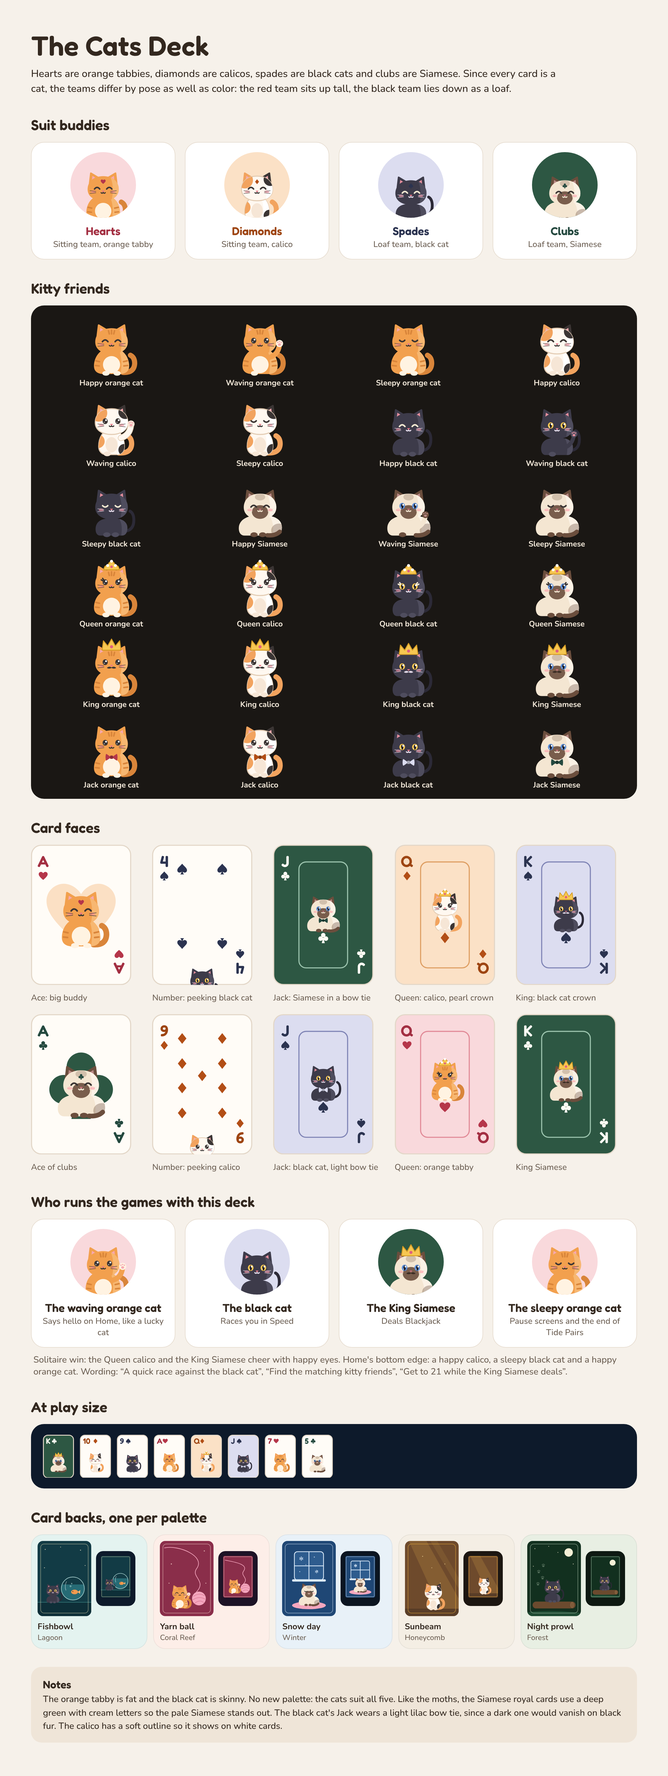
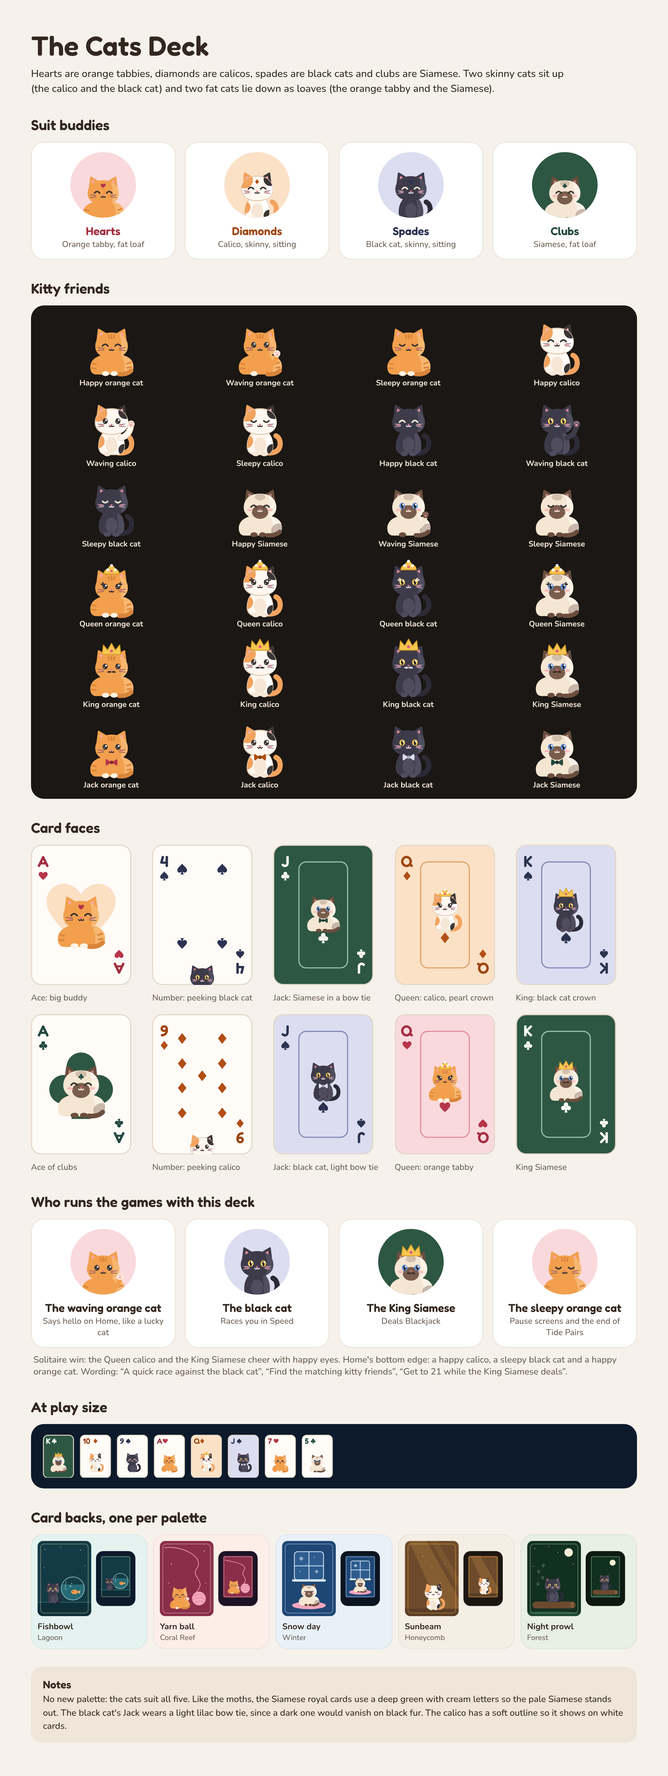
Cats: orange tabby as a fat loaf, black cat sitting up
The owner wanted two fat cats and two skinny ones: the orange tabby now takes
the Siamese's loaf body (keeping its stripes) and the black cat the calico's
sitting body. Update the master, the app's cats, the sheet and the plan.

Claude-Session: https://claude.ai/code/session_01MpZGoDHbcvynzRbebqZYLX

diff --git a/design/garden-mockup/cats.js b/design/garden-mockup/cats.js
@@ -1,5 +1,5 @@
 // Cat deck mockup art. Needs art.js (face helpers, crown, bowtie, badge, lightHalf, mix, shade, id).
-// Red team sits up tall (orange tabby = hearts, calico = diamonds); black team lies as a loaf (black = spades, Siamese = clubs).
+// Two skinny cats sit up (calico = diamonds, black cat = spades); two fat cats lie as loaves (orange tabby = hearts, Siamese = clubs).
 const CAT = {
   hearts: { fur: '#F2A04E', light: '#F7B771', dark: '#D9853A', belly: '#FFF3E2', ink: '#3B3534', iris: null, line: '#3B3534', nose: '#E9788A', inner: '#F7A8B0' },
   diamonds: { fur: '#FFF8F0', light: '#FFFFFF', dark: '#E8DCCD', belly: '#F6E6D6', outline: '#E3CCB3', ink: '#3B3534', iris: null, line: '#3B3534', nose: '#E9788A', inner: '#F7A8B0' },
@@ -58,25 +58,19 @@ const pawPads = (x, y, r, P, color) => `<circle cx="${x}" cy="${y}" r="${r}" fil
   + `<circle cx="${x - r * 0.48}" cy="${y - r * 0.32}" r="${r * 0.19}" fill="${P.inner}"/><circle cx="${x}" cy="${y - r * 0.5}" r="${r * 0.19}" fill="${P.inner}"/><circle cx="${x + r * 0.48}" cy="${y - r * 0.32}" r="${r * 0.19}" fill="${P.inner}"/>`;
 const paw = (x, y, P, color) => `<ellipse cx="${x}" cy="${y}" rx="4.2" ry="2.8" fill="${color ?? P.belly}"/>`;
 
-/** Red team: sitting up, tail curled around the side. */
-const SIT_BODY = {
-  // the orange tabby is fat and round; the calico has the standard body
-  hearts: 'M32 29 C46 29 52.5 40 52.5 50 C52.5 57 47.5 59.5 40.5 59.5 L23.5 59.5 C16.5 59.5 11.5 57 11.5 50 C11.5 40 18 29 32 29 Z',
-  diamonds: 'M32 30 C42 30 47 40 47 50 C47 56 43 59.5 38 59.5 L26 59.5 C21 59.5 17 56 17 50 C17 40 22 30 32 30 Z',
-};
-function sittingCat({ suit = 'hearts', eyes = 'happy', hat, wave, badgeColor, bowtieColor, jewel }) {
+/** The skinny cats: sitting up, tail curled around the side. */
+const SIT_BODY = 'M32 30 C42 30 47 40 47 50 C47 56 43 59.5 38 59.5 L26 59.5 C21 59.5 17 56 17 50 C17 40 22 30 32 30 Z';
+function sittingCat({ suit = 'diamonds', eyes = 'happy', hat, wave, badgeColor, bowtieColor, jewel }) {
   const P = CAT[suit];
-  const fat = suit === 'hearts';
   let s = '';
-  s += `<path fill="none" stroke="${suit === 'diamonds' ? '#F2A35E' : P.dark}" stroke-width="6" stroke-linecap="round" d="${fat ? 'M45 57.5 Q58.5 58.5 59 47 Q59 40 54 37.5' : 'M40 57.5 Q55 58.5 55.5 47 Q55.5 40 50.5 37.5'}"/>`;
+  s += `<path fill="none" stroke="${suit === 'diamonds' ? '#F2A35E' : P.dark}" stroke-width="6" stroke-linecap="round" d="M40 57.5 Q55 58.5 55.5 47 Q55.5 40 50.5 37.5"/>`;
   const edge = P.outline ? ` stroke="${P.outline}" stroke-width="1.2"` : '';
-  const body = `<path fill="${P.fur}"${edge} d="${SIT_BODY[suit]}"/>`;
-  s += body + lightHalf(body, fat ? 'M38 27 C44 36 45 48 42 62 L64 62 L64 27 Z' : 'M35 28 C40 36 41 48 38 62 L64 62 L64 28 Z', P.light);
+  const body = `<path fill="${P.fur}"${edge} d="${SIT_BODY}"/>`;
+  s += body + lightHalf(body, 'M35 28 C40 36 41 48 38 62 L64 62 L64 28 Z', P.light);
   const c = id('cb');
-  if (suit === 'diamonds') s += `<clipPath id="${c}"><path d="M32 30 C42 30 47 40 47 50 C47 56 43 59.5 38 59.5 L26 59.5 C21 59.5 17 56 17 50 C17 40 22 30 32 30 Z"/></clipPath><g clip-path="url(#${c})"><circle cx="16" cy="44" r="8" fill="#F2A35E"/><circle cx="47" cy="54" r="7" fill="#3B3534"/></g>`;
-  if (fat) s += `<path fill="none" stroke="${P.dark}" stroke-width="1.8" stroke-linecap="round" d="M13.6 44 L18 45 M13.2 49.5 L17.6 50 M50.4 44 L46 45 M50.8 49.5 L46.4 50"/>`;
-  s += fat ? `<ellipse cx="32" cy="48.5" rx="10" ry="10" fill="${P.belly}"/>` : `<ellipse cx="32" cy="48" rx="7" ry="9" fill="${P.belly}"/>`;
-  s += paw(fat ? 25.5 : 27, 58.6, P) + (wave ? '' : paw(fat ? 38.5 : 37, 58.6, P));
+  if (suit === 'diamonds') s += `<clipPath id="${c}"><path d="${SIT_BODY}"/></clipPath><g clip-path="url(#${c})"><circle cx="16" cy="44" r="8" fill="#F2A35E"/><circle cx="47" cy="54" r="7" fill="#3B3534"/></g>`;
+  s += `<ellipse cx="32" cy="48" rx="7" ry="9" fill="${P.belly}"/>`;
+  s += paw(27, 58.6, P) + (wave ? '' : paw(37, 58.6, P));
   s += catHeadParts(suit, P, 0, { eyes, hat, badgeColor });
   if (wave) {
     // The raised paw, clear of the whiskers; the calico's gets the same soft outline as its body
@@ -84,47 +78,43 @@ function sittingCat({ suit = 'hearts', eyes = 'happy', hat, wave, badgeColor, bo
     s += `<path fill="none" stroke="${P.fur}" stroke-width="6" stroke-linecap="round" d="M43 40 Q53 37 54.5 26"/>` + pawPads(54.7, 23.8, 4.2, P);
   }
   if (badgeColor) s += badge(suit, badgeColor, 28.4, 9.2, 0.3);
-  if (bowtieColor) s += bowtie(32, 37.4, bowtieColor);
+  if (bowtieColor) s += bowtie(32, 37.4, suit === 'spades' ? '#DCDDF0' : bowtieColor);
   s += crown(hat, -8.5, jewel);
   return s;
 }
 
-/** Black team: a loaf, paws tucked, tail wrapped along the front. */
-function loafCat({ suit = 'spades', eyes = 'open', hat, wave, badgeColor, bowtieColor, jewel }) {
+/** The fat cats: a loaf, paws tucked, tail wrapped along the front; the orange tabby keeps its side stripes. */
+const LOAF_BODY = 'M14 60 C8 60 6.5 54 7.5 48.5 C9.5 40.5 18 36.5 30 36.5 L36 36.5 C50 36.5 57.5 42 57.5 50.5 C57.5 57 54.5 60 49.5 60 Z';
+function loafCat({ suit = 'clubs', eyes = 'open', hat, wave, badgeColor, bowtieColor, jewel }) {
   const P = CAT[suit];
   const dy = 5;
   let s = '';
-  const skinny = suit === 'spades';
-  const bodyD = skinny
-    ? 'M19 60 C14 60 13 55 13.5 50.5 C14.5 43.5 20.5 40 29.5 40 L35 40 C45 40 50.5 44.5 50.5 51 C50.5 57 48 60 44 60 Z'
-    : 'M14 60 C8 60 6.5 54 7.5 48.5 C9.5 40.5 18 36.5 30 36.5 L36 36.5 C50 36.5 57.5 42 57.5 50.5 C57.5 57 54.5 60 49.5 60 Z';
-  const body = `<path fill="${P.fur}" d="${bodyD}"/>`;
-  if (skinny) s += `<path fill="none" stroke="${P.dark}" stroke-width="3.4" stroke-linecap="round" d="M47 55 Q58 54 58 42 Q58 34 53.5 31.5"/>`;
-  s += body + lightHalf(body, skinny ? 'M38 37 C44 42 45 51 43 62 L64 62 L64 37 Z' : 'M40 34 C47 40 49 50 46 62 L64 62 L64 34 Z', P.light);
-  if (suit === 'clubs') { const c = id('cl'); s += `<clipPath id="${c}"><path d="${bodyD}"/></clipPath><g clip-path="url(#${c})"><ellipse cx="54" cy="54" rx="9" ry="8" fill="${P.point}" opacity=".35"/></g>`; }
-  const tail = suit === 'clubs' ? P.point : P.dark;
-  if (!skinny) s += `<path fill="none" stroke="${tail}" stroke-width="5" stroke-linecap="round" d="M55 55.5 Q50 60.5 40.5 59.6"/>`;
-  const pawColor = suit === 'clubs' ? P.point : suit === 'spades' ? '#4F4D5E' : undefined;
-  s += paw(skinny ? 26.5 : 25, 59, P, pawColor) + (wave ? '' : paw(skinny ? 36.5 : 35, 59, P, pawColor));
+  const body = `<path fill="${P.fur}" d="${LOAF_BODY}"/>`;
+  s += body + lightHalf(body, 'M40 34 C47 40 49 50 46 62 L64 62 L64 34 Z', P.light);
+  if (suit === 'clubs') { const c = id('cl'); s += `<clipPath id="${c}"><path d="${LOAF_BODY}"/></clipPath><g clip-path="url(#${c})"><ellipse cx="54" cy="54" rx="9" ry="8" fill="${P.point}" opacity=".35"/></g>`; }
+  if (suit === 'hearts') s += `<path fill="none" stroke="${P.dark}" stroke-width="1.8" stroke-linecap="round" d="M9.6 47 L14 48.2 M9 52.5 L13.6 53 M54.4 46 L50 47.4 M55 51.5 L50.4 52.2"/>`;
+  s += `<path fill="none" stroke="${P.point ?? P.dark}" stroke-width="5" stroke-linecap="round" d="M55 55.5 Q50 60.5 40.5 59.6"/>`;
+  const pawColor = P.point ?? P.belly;
+  s += paw(25, 59, P, pawColor) + (wave ? '' : paw(35, 59, P, pawColor));
   s += catHeadParts(suit, P, dy, { eyes, hat, badgeColor });
-  if (wave) s += `<path fill="none" stroke="${P.fur}" stroke-width="${skinny ? 4.6 : 5.5}" stroke-linecap="round" d="M42 51 Q50 47 51.5 37.5"/>` + pawPads(51.7, 35.6, 4, P, pawColor);
+  if (wave) s += `<path fill="none" stroke="${P.fur}" stroke-width="5.5" stroke-linecap="round" d="M42 51 Q50 47 51.5 37.5"/>` + pawPads(51.7, 35.6, 4, P, pawColor);
   if (badgeColor) s += badge(suit, badgeColor, 28.4, 9.2 + dy, 0.3);
-  if (bowtieColor) s += bowtie(32, 37.4 + dy + 1, suit === 'spades' ? '#DCDDF0' : bowtieColor);
+  if (bowtieColor) s += bowtie(32, 37.4 + dy + 1, bowtieColor);
   s += crown(hat, -8.5 + dy, jewel);
   return s;
 }
 
-SPECIES.cat = (o) => (o.suit === 'spades' || o.suit === 'clubs' ? loafCat(o) : sittingCat(o));
+SPECIES.cat = (o) => (o.suit === 'hearts' || o.suit === 'clubs' ? loafCat(o) : sittingCat(o));
 
 DECKS.cats = {
   name: 'Cats', blurb: 'Orange, calico, black and Siamese cats', friends: 'kitty friends',
   face: '#FFFCF7', border: '#E3D7C8',
   red: 'cat', black: 'cat',
   suits: {
-    hearts: { symbol: '#B5364A', rank: '#A32F42', tint: '#F9D9DC', frame: '#E18A97', ace: ['#F2A04E', 0.3], note: 'Sitting team, orange tabby' },
-    diamonds: { symbol: '#B24E16', rank: '#9E4512', tint: '#FBE1C6', frame: '#DE9E62', ace: ['#F2A35E', 0.3], note: 'Sitting team, calico' },
-    spades: { symbol: '#2B3350', rank: '#2B3350', tint: '#DCDDF0', frame: '#7F84B5', ace: ['#DCDDF0', 1], note: 'Loaf team, black cat' },
-    clubs: { symbol: '#24493F', rank: '#24493F', tint: '#2D5743', frame: '#9CC4AE', faceInk: '#FFFDF5', ace: ['#2D5743', 1], note: 'Loaf team, Siamese' },
+    hearts: { symbol: '#B5364A', rank: '#A32F42', tint: '#F9D9DC', frame: '#E18A97', ace: ['#F2A04E', 0.3], note: 'Orange tabby, fat loaf' },
+    diamonds: { symbol: '#B24E16', rank: '#9E4512', tint: '#FBE1C6', frame: '#DE9E62', ace: ['#F2A35E', 0.3], note: 'Calico, skinny, sitting' },
+    spades: { symbol: '#2B3350', rank: '#2B3350', tint: '#DCDDF0', frame: '#7F84B5', ace: ['#DCDDF0', 1], note: 'Black cat, skinny, sitting' },
+    clubs: { symbol: '#24493F', rank: '#24493F', tint: '#2D5743', frame: '#9CC4AE', faceInk: '#FFFDF5', ace: ['#2D5743', 1], note: 'Siamese, fat loaf' },
   },
 };
 

diff --git a/src/art/Cat.tsx b/src/art/Cat.tsx
@@ -1,5 +1,5 @@
-// The Cats deck: an orange tabby (hearts, fat) and a calico (diamonds) sitting up, a black cat (spades, skinny) and a
-// Siamese (clubs) lying as loaves. Every shape, coordinate and color is ported from design/garden-mockup/cats.js (the
+// The Cats deck: two skinny cats sitting up, a calico (diamonds) and a black cat (spades), and two fat cats lying as
+// loaves, an orange tabby (hearts) and a Siamese (clubs). Every shape, coordinate and color is ported from design/garden-mockup/cats.js (the
 // approved master; Garden.test.tsx checks the two match). Drawn through <Garden kind="cat">.
 import type { Suit } from '../cards/deck';
 import type { Eyes, Hat } from './Creature';
@@ -164,10 +164,7 @@ function RaisedPaw({ x, y, r, P, color }: { x: number; y: number; r: number; P: 
 
 const Paw = ({ x, y, color }: { x: number; y: number; color: string }) => <ellipse cx={x} cy={y} rx={4.2} ry={2.8} fill={color} />;
 
-const SIT_BODY: Partial<Record<Suit, string>> = {
-  hearts: 'M32 29 C46 29 52.5 40 52.5 50 C52.5 57 47.5 59.5 40.5 59.5 L23.5 59.5 C16.5 59.5 11.5 57 11.5 50 C11.5 40 18 29 32 29 Z',
-  diamonds: 'M32 30 C42 30 47 40 47 50 C47 56 43 59.5 38 59.5 L26 59.5 C21 59.5 17 56 17 50 C17 40 22 30 32 30 Z',
-};
+const SIT_BODY = 'M32 30 C42 30 47 40 47 50 C47 56 43 59.5 38 59.5 L26 59.5 C21 59.5 17 56 17 50 C17 40 22 30 32 30 Z';
 
 export interface CatDrawProps {
   suit: Suit;
@@ -181,41 +178,31 @@ export interface CatDrawProps {
   uid: string;
 }
 
-/** Red team: sitting up with the tail curled around the side; the orange tabby is fat and round. */
+/** The skinny cats: sitting up with the tail curled around the side. */
 function SittingCat({ suit, eyes = 'happy', hat, wave, badge, badgeColor, bowtie, jewel, uid }: CatDrawProps) {
   const P = CAT[suit];
-  const fat = suit === 'hearts';
-  const body = SIT_BODY[suit] ?? SIT_BODY.diamonds!;
   const edge = P.outline ? { stroke: P.outline, strokeWidth: 1.2 } : {};
   const arm = 'M43 40 Q53 37 54.5 26';
   return (
     <>
       <path
         fill="none" stroke={suit === 'diamonds' ? PATCH_ORANGE : P.dark} strokeWidth={6} strokeLinecap="round"
-        d={fat ? 'M45 57.5 Q58.5 58.5 59 47 Q59 40 54 37.5' : 'M40 57.5 Q55 58.5 55.5 47 Q55.5 40 50.5 37.5'}
+        d="M40 57.5 Q55 58.5 55.5 47 Q55.5 40 50.5 37.5"
       />
-      <path fill={P.fur} {...edge} d={body} />
-      <LightHalf
-        id={`${uid}-body`}
-        clip={<path {...edge} d={body} />}
-        split={fat ? 'M38 27 C44 36 45 48 42 62 L64 62 L64 27 Z' : 'M35 28 C40 36 41 48 38 62 L64 62 L64 28 Z'}
-        color={P.light}
-      />
+      <path fill={P.fur} {...edge} d={SIT_BODY} />
+      <LightHalf id={`${uid}-body`} clip={<path {...edge} d={SIT_BODY} />} split="M35 28 C40 36 41 48 38 62 L64 62 L64 28 Z" color={P.light} />
       {suit === 'diamonds' && (
         <>
-          <clipPath id={`${uid}-spots`}><path d={body} /></clipPath>
+          <clipPath id={`${uid}-spots`}><path d={SIT_BODY} /></clipPath>
           <g clipPath={`url(#${uid}-spots)`}>
             <circle cx={16} cy={44} r={8} fill={PATCH_ORANGE} />
             <circle cx={47} cy={54} r={7} fill={PATCH_BLACK} />
           </g>
         </>
       )}
-      {fat && (
-        <path fill="none" stroke={P.dark} strokeWidth={1.8} strokeLinecap="round" d="M13.6 44 L18 45 M13.2 49.5 L17.6 50 M50.4 44 L46 45 M50.8 49.5 L46.4 50" />
-      )}
-      {fat ? <ellipse cx={32} cy={48.5} rx={10} ry={10} fill={P.belly} /> : <ellipse cx={32} cy={48} rx={7} ry={9} fill={P.belly} />}
-      <Paw x={fat ? 25.5 : 27} y={58.6} color={P.belly} />
-      {!wave && <Paw x={fat ? 38.5 : 37} y={58.6} color={P.belly} />}
+      <ellipse cx={32} cy={48} rx={7} ry={9} fill={P.belly} />
+      <Paw x={27} y={58.6} color={P.belly} />
+      {!wave && <Paw x={37} y={58.6} color={P.belly} />}
       <Head suit={suit} P={P} dy={0} eyes={eyes} hat={hat} badge={!!(badge && badgeColor)} uid={uid} />
       {wave && (
         <>
@@ -226,56 +213,52 @@ function SittingCat({ suit, eyes = 'happy', hat, wave, badge, badgeColor, bowtie
         </>
       )}
       {badge && <Badge suit={suit} color={badgeColor} x={28.4} y={9.2} scale={0.3} />}
-      <BowTie cx={32} cy={37.4} color={bowtie} />
+      <BowTie cx={32} cy={37.4} color={bowtie && suit === 'spades' ? BLACK_CAT_BOWTIE : bowtie} />
       <Crown hat={hat} dy={-8.5} jewel={jewel} />
     </>
   );
 }
 
 const LOAF_BODY = 'M14 60 C8 60 6.5 54 7.5 48.5 C9.5 40.5 18 36.5 30 36.5 L36 36.5 C50 36.5 57.5 42 57.5 50.5 C57.5 57 54.5 60 49.5 60 Z';
-const SKINNY_BODY = 'M19 60 C14 60 13 55 13.5 50.5 C14.5 43.5 20.5 40 29.5 40 L35 40 C45 40 50.5 44.5 50.5 51 C50.5 57 48 60 44 60 Z';
 
-/** Black team: a loaf with paws tucked; the black cat is skinny with a long thin tail curling up behind. */
+/** The fat cats: a loaf with paws tucked and the tail wrapped along the front; the orange tabby keeps its side stripes. */
 function LoafCat({ suit, eyes = 'open', hat, wave, badge, badgeColor, bowtie, jewel, uid }: CatDrawProps) {
   const P = CAT[suit];
   const dy = 5;
-  const skinny = suit === 'spades';
-  const body = skinny ? SKINNY_BODY : LOAF_BODY;
-  const pawColor = P.point ?? (skinny ? '#4F4D5E' : P.belly);
+  const pawColor = P.point ?? P.belly;
   return (
     <>
-      {skinny && <path fill="none" stroke={P.dark} strokeWidth={3.4} strokeLinecap="round" d="M47 55 Q58 54 58 42 Q58 34 53.5 31.5" />}
-      <path fill={P.fur} d={body} />
-      <LightHalf
-        id={`${uid}-body`}
-        clip={<path d={body} />}
-        split={skinny ? 'M38 37 C44 42 45 51 43 62 L64 62 L64 37 Z' : 'M40 34 C47 40 49 50 46 62 L64 62 L64 34 Z'}
-        color={P.light}
-      />
+      <path fill={P.fur} d={LOAF_BODY} />
+      <LightHalf id={`${uid}-body`} clip={<path d={LOAF_BODY} />} split="M40 34 C47 40 49 50 46 62 L64 62 L64 34 Z" color={P.light} />
       {P.point && (
         <>
-          <clipPath id={`${uid}-haunch`}><path d={body} /></clipPath>
+          <clipPath id={`${uid}-haunch`}><path d={LOAF_BODY} /></clipPath>
           <g clipPath={`url(#${uid}-haunch)`}><ellipse cx={54} cy={54} rx={9} ry={8} fill={P.point} opacity={0.35} /></g>
         </>
       )}
-      {!skinny && <path fill="none" stroke={P.point ?? P.dark} strokeWidth={5} strokeLinecap="round" d="M55 55.5 Q50 60.5 40.5 59.6" />}
-      <Paw x={skinny ? 26.5 : 25} y={59} color={pawColor} />
-      {!wave && <Paw x={skinny ? 36.5 : 35} y={59} color={pawColor} />}
+      {suit === 'hearts' && (
+        <path fill="none" stroke={P.dark} strokeWidth={1.8} strokeLinecap="round" d="M9.6 47 L14 48.2 M9 52.5 L13.6 53 M54.4 46 L50 47.4 M55 51.5 L50.4 52.2" />
+      )}
+      <path fill="none" stroke={P.point ?? P.dark} strokeWidth={5} strokeLinecap="round" d="M55 55.5 Q50 60.5 40.5 59.6" />
+      <Paw x={25} y={59} color={pawColor} />
+      {!wave && <Paw x={35} y={59} color={pawColor} />}
       <Head suit={suit} P={P} dy={dy} eyes={eyes} hat={hat} badge={!!(badge && badgeColor)} uid={uid} />
       {wave && (
         <>
-          <path fill="none" stroke={P.fur} strokeWidth={skinny ? 4.6 : 5.5} strokeLinecap="round" d="M42 51 Q50 47 51.5 37.5" />
+          <path fill="none" stroke={P.fur} strokeWidth={5.5} strokeLinecap="round" d="M42 51 Q50 47 51.5 37.5" />
           <RaisedPaw x={51.7} y={35.6} r={4} P={P} color={pawColor} />
         </>
       )}
       {badge && <Badge suit={suit} color={badgeColor} x={28.4} y={9.2 + dy} scale={0.3} />}
-      <BowTie cx={32} cy={37.4 + dy + 1} color={bowtie && skinny ? BLACK_CAT_BOWTIE : bowtie} />
+      <BowTie cx={32} cy={37.4 + dy + 1} color={bowtie} />
       <Crown hat={hat} dy={-8.5 + dy} jewel={jewel} />
     </>
   );
 }
 
-/** Hearts and diamonds sit up; spades and clubs lie as loaves. */
+/** The orange tabby and the Siamese lie as fat loaves; the calico and the black cat sit up, skinny. */
+export const isLoafCat = (suit: Suit) => suit === 'hearts' || suit === 'clubs';
+
 export function Cat(props: CatDrawProps) {
-  return props.suit === 'spades' || props.suit === 'clubs' ? <LoafCat {...props} /> : <SittingCat {...props} />;
+  return isLoafCat(props.suit) ? <LoafCat {...props} /> : <SittingCat {...props} />;
 }

diff --git a/design/garden-mockup/catdeck.html b/design/garden-mockup/catdeck.html
@@ -39,7 +39,7 @@ document.body.style.background = T.bg; document.body.style.color = T.ink;
 const SUITS = ['hearts', 'diamonds', 'spades', 'clubs'];
 const cap = (s) => s[0].toUpperCase() + s.slice(1);
 const NAME = { hearts: 'orange cat', diamonds: 'calico', spades: 'black cat', clubs: 'Siamese' };
-let h = `<h1>The Cats Deck</h1><p class="lead">Hearts are orange tabbies, diamonds are calicos, spades are black cats and clubs are Siamese. Since every card is a cat, the teams differ by pose as well as color: the red team sits up tall, the black team lies down as a loaf.</p>`;
+let h = `<h1>The Cats Deck</h1><p class="lead">Hearts are orange tabbies, diamonds are calicos, spades are black cats and clubs are Siamese. Two skinny cats sit up (the calico and the black cat) and two fat cats lie down as loaves (the orange tabby and the Siamese).</p>`;
 h += `<h2>Suit buddies</h2><div class="row">`;
 for (const s of SUITS) { const S = D.suits[s]; h += `<div class="box"><div class="circle" style="background:${S.tint}">${char('cat', { suit: s, eyes: 'happy', badgeColor: S.symbol }, 88, 'style="margin-bottom:-4px"')}</div><div class="name" style="color:${S.rank}">${cap(s)}</div><div class="note">${S.note}</div></div>`; }
 h += `</div><h2>${cap(D.friends)}</h2><div class="strip" style="background:${T.table}">`;
@@ -69,6 +69,6 @@ const PAL = { lagoon: ['Lagoon', '#E4F3F0', '#0D1A2B'], coral: ['Coral Reef', '#
 for (const k of Object.keys(CAT_BACKS)) { const B = CAT_BACKS[k], [pn, light, dark] = PAL[B.palette];
   h += `<div class="bcell" style="background:${light}"><div class="pair">${catBack(k, 90)}<div class="tbl" style="background:${dark}">${catBack(k, 50)}</div></div><div class="nm">${B.name}</div><div class="pl">${pn}</div></div>`; }
 h += `</div>`;
-h += `<div class="q"><b>Notes</b><br>The orange tabby is fat and the black cat is skinny. No new palette: the cats suit all five. Like the moths, the Siamese royal cards use a deep green with cream letters so the pale Siamese stands out. The black cat's Jack wears a light lilac bow tie, since a dark one would vanish on black fur. The calico has a soft outline so it shows on white cards.</div>`;
+h += `<div class="q"><b>Notes</b><br>No new palette: the cats suit all five. Like the moths, the Siamese royal cards use a deep green with cream letters so the pale Siamese stands out. The black cat's Jack wears a light lilac bow tie, since a dark one would vanish on black fur. The calico has a soft outline so it shows on white cards.</div>`;
 document.body.innerHTML = h;
 </script></body></html>

diff --git a/src/screens/Gallery.tsx b/src/screens/Gallery.tsx
@@ -98,10 +98,10 @@ const GARDEN_DECKS = [
 
 // The Cats deck's suit colors (PLAN.md "Cats deck"), until it joins DECKS in phase 23
 const CAT_SUITS: Record<Suit, { symbol: string; tint: string; name: string; team: string }> = {
-  hearts: { symbol: '#B5364A', tint: '#F9D9DC', name: 'orange cat', team: 'Sitting team, orange tabby' },
-  diamonds: { symbol: '#B24E16', tint: '#FBE1C6', name: 'calico', team: 'Sitting team, calico' },
-  spades: { symbol: '#2B3350', tint: '#DCDDF0', name: 'black cat', team: 'Loaf team, black cat' },
-  clubs: { symbol: '#24493F', tint: '#2D5743', name: 'Siamese', team: 'Loaf team, Siamese' },
+  hearts: { symbol: '#B5364A', tint: '#F9D9DC', name: 'orange cat', team: 'Orange tabby, fat loaf' },
+  diamonds: { symbol: '#B24E16', tint: '#FBE1C6', name: 'calico', team: 'Calico, skinny, sitting' },
+  spades: { symbol: '#2B3350', tint: '#DCDDF0', name: 'black cat', team: 'Black cat, skinny, sitting' },
+  clubs: { symbol: '#24493F', tint: '#2D5743', name: 'Siamese', team: 'Siamese, fat loaf' },
 };
 
 /** Every cat in every pose, and who runs the games with the Cats deck. */

diff --git a/src/art/Garden.tsx b/src/art/Garden.tsx
@@ -8,7 +8,7 @@ import type { Eyes, Hat } from './Creature';
 import { ASPECT, VIEWBOX } from './Creature';
 import { mix } from './color';
 import { Badge, BowTie, Crown, LightHalf, stroke } from './gardenParts';
-import { Cat } from './Cat';
+import { Cat, isLoafCat } from './Cat';
 
 export type GardenKind = 'sloth' | 'bee' | 'mushroom' | 'moth' | 'cat';
 
@@ -296,7 +296,7 @@ function Moth({ suit, eyes, hat, wave, badge, badgeColor, bowtie, jewel }: Drawn
 const DRAW: Record<GardenKind, (p: Drawn) => React.ReactElement> = { sloth: Sloth, bee: Bee, mushroom: Mushroom, moth: Moth, cat: Cat };
 const DEFAULT_EYES: Record<GardenKind, (suit: Suit) => Eyes> = {
   sloth: () => 'happy', bee: () => 'open', mushroom: () => 'happy', moth: () => 'open',
-  cat: (suit) => (suit === 'spades' || suit === 'clubs' ? 'open' : 'happy'),
+  cat: (suit) => (isLoafCat(suit) ? 'open' : 'happy'),
 };
 
 /** The character drawn in viewBox coordinates, for use inside another SVG. */

diff --git a/PLAN.md b/PLAN.md
@@ -737,12 +737,12 @@ Approved by the owner on Oct 31, 2026 (`design/cats-deck.png`). A fifth deck whe
 
 | Suit | Cat | Pose | Notes |
 | --- | --- | --- | --- |
-| Hearts | Orange tabby | Sitting up, fat and round | Forehead and side stripes (forehead stripes hide under a badge) |
-| Diamonds | Calico | Sitting up | Orange and black patches, a soft #E3CCB3 outline so it shows on white cards |
-| Spades | Black cat | Loaf, skinny | Golden eyes, a long thin tail curling up behind |
-| Clubs | Siamese | Loaf | Blue eyes, dark brown ears, face, paws and tail |
+| Hearts | Orange tabby | Loaf, fat | Forehead and side stripes (forehead stripes hide under a badge) |
+| Diamonds | Calico | Sitting up, skinny | Orange and black patches, a soft #E3CCB3 outline so it shows on white cards |
+| Spades | Black cat | Sitting up, skinny | Golden eyes |
+| Clubs | Siamese | Loaf, fat | Blue eyes, dark brown ears, face, paws and tail |
 
-The red team sits up and the black team lies down as a loaf, so the teams differ by shape as well as color. Every cat has happy, open (big eyes with two sparkles) and sleepy eyes, the waving pose (a raised paw with one pink pad and three toe beans, like the waving fox), the Queen's pearl crown and lashes, the King's crown and mustache, the Jack's bow tie and the suit badge. Royal cards stay by suit: every suit has its own Queen and King. The black cat's Jack wears its bow tie in #DCDDF0 (the spades tint), since the suit color vanishes on black fur.
+Two skinny cats sit up and two fat cats lie as loaves, as the owner asked; so unlike the other decks, each team has one of each shape and the teams differ by color (and the corner suits) rather than by shape. Every cat has happy, open (big eyes with two sparkles) and sleepy eyes, the waving pose (a raised paw with one pink pad and three toe beans, like the waving fox), the Queen's pearl crown and lashes, the King's crown and mustache, the Jack's bow tie and the suit badge. Royal cards stay by suit: every suit has its own Queen and King. The black cat's Jack wears its bow tie in #DCDDF0 (the spades tint), since the suit color vanishes on black fur.
 
 `deck: 'cats'`, name "Cats", line "Orange, calico, black and Siamese cats". Wording: "the black cat", "the King Siamese", "kitty friends".
 

diff --git a/CLAUDE.md b/CLAUDE.md
@@ -143,8 +143,9 @@ Work one phase at a time and stop after each so the owner can check it on their 
   or Clubs moth), `'dealer'` (Blackjack, Solitaire's King: Clubs bee or Spades moth), or `'black'` with a card's own suit.
   Like Fox + Owl, Speed's pause shows the sleepy opponent (bee or moth) since its text names it; the other pause screens and
   the Tide Pairs win use the sleepy sloth or toadstool. Icons: `GardenHeadAt` crops the sloth's head or the whole toadstool.
-- Cats are a fifth `GardenKind` (`<Garden kind="cat" suit>`), drawn in `art/Cat.tsx`: hearts and diamonds sit up (the orange
-  tabby fat), spades and clubs lie as loaves (the black cat skinny); default eyes follow the pose. Crowns, bow ties, badges and
+- Cats are a fifth `GardenKind` (`<Garden kind="cat" suit>`), drawn in `art/Cat.tsx`: the calico and the black cat sit up
+  (skinny), the orange tabby and the Siamese lie as loaves (fat) (`isLoafCat`); default eyes follow the pose. The owner
+  chose this over teams-by-shape, so the Cats teams differ only by color. Crowns, bow ties, badges and
   the light side are shared in `art/gardenParts.tsx`. `Garden.test.tsx` also runs `cats.js` and checks all four cats.
   The black cat's Jack bow tie is the spades tint (#DCDDF0), drawn by `Cat` whatever color it's given.
   Until phase 23 the gallery keeps the cats' suit colors locally (`CAT_SUITS`).
